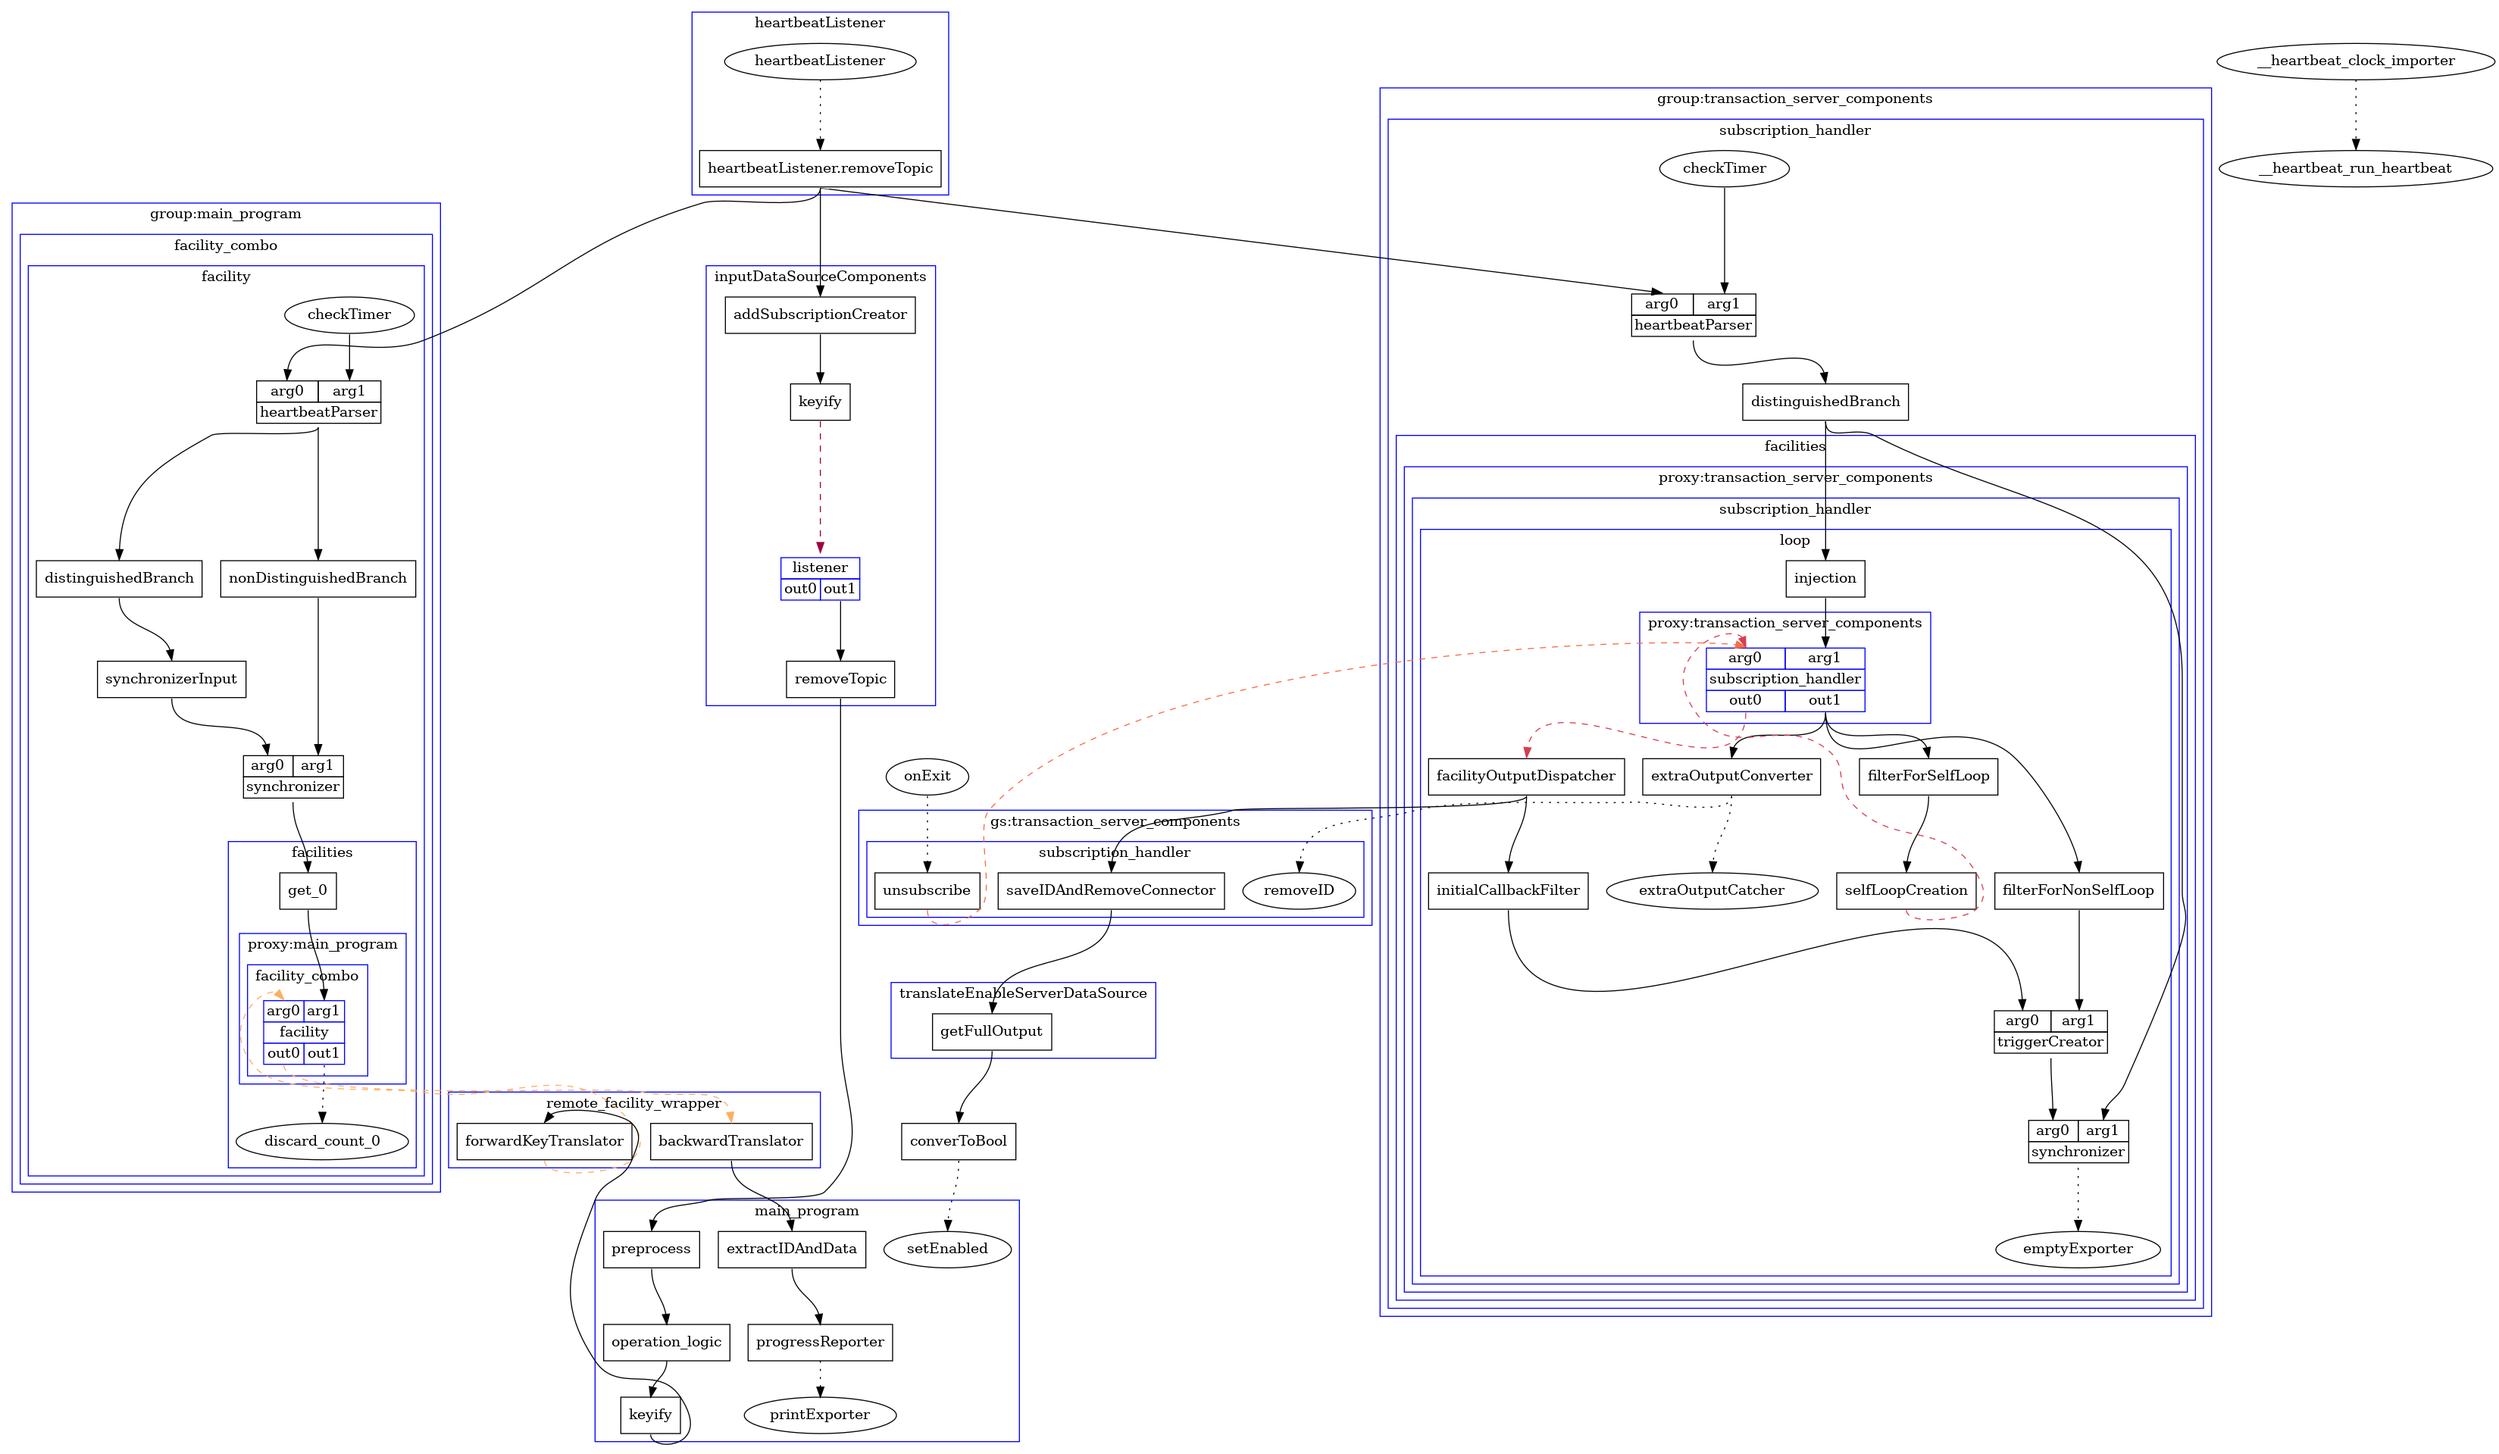
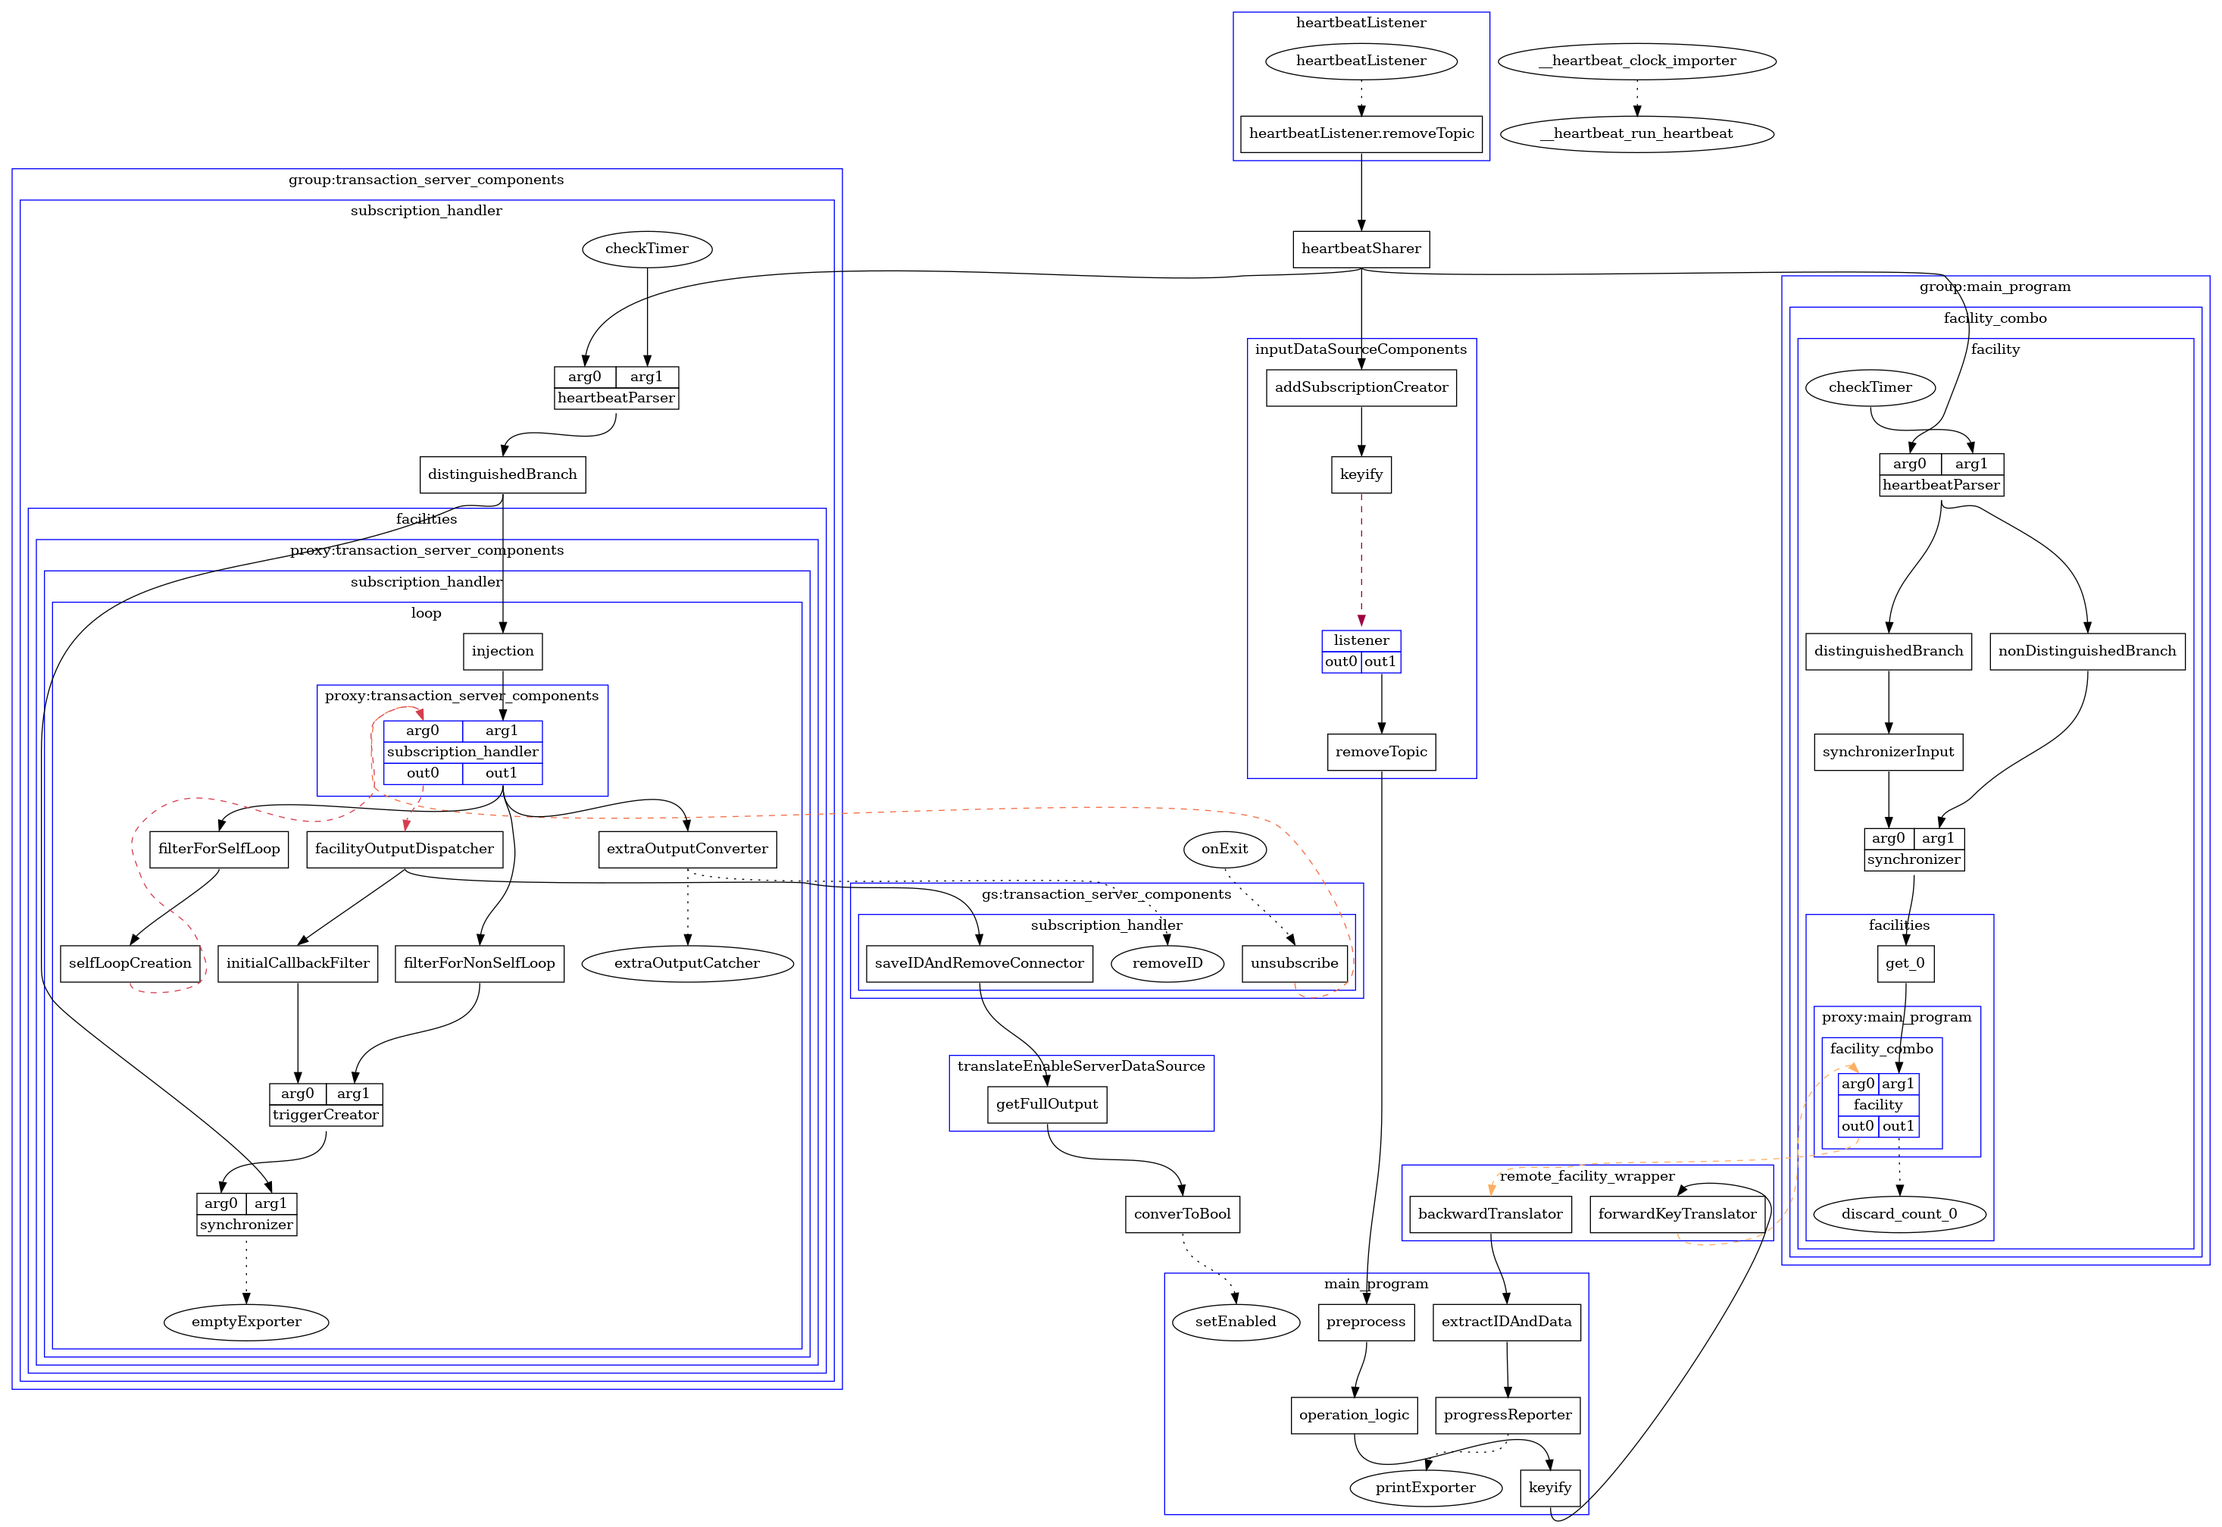
allow shared heartbeat data to be used in service discovery

diff --git a/simple_demo_chain_version/executables/main_logic/main_request_generator.cpp b/simple_demo_chain_version/executables/main_logic/main_request_generator.cpp
@@ -64,11 +64,18 @@ int main(int argc, char **argv) {
             , "simple_demo_chain_version.#.heartbeat"
         );
 
+    auto heartbeatSharer = 
+        infra::KleisliUtils<M>::action(
+            basic::CommonFlowUtilComponents<M>::shareBetweenDownstream<transport::HeartbeatMessage>()
+        );
+    r.registerAction("heartbeatSharer", heartbeatSharer);
+    auto sharedHeartbeatSource = r.execute(heartbeatSharer, heartbeatSource.clone());
+
     auto inputDataSource = transport::MultiTransportBroadcastListenerManagingUtils<R>
         ::setupBroadcastListenerThroughHeartbeat<InputData>
     (
         r 
-        , heartbeatSource.clone()
+        , sharedHeartbeatSource.clone()
         , std::regex("simple_demo_chain_version DataSource")
         , "input data publisher"
         , "input.data"
@@ -79,7 +86,7 @@ int main(int argc, char **argv) {
         ::setupOneNonDistinguishedRemoteFacility<basic::CBOR<double>, basic::CBOR<std::optional<ChainData>>>
         (
             r 
-            , heartbeatSource.clone()
+            , sharedHeartbeatSource.clone()
             , std::regex("simple_demo_chain_version MainLogic Request Placer")
             , "main_program/facility_combo/facility"
         ).facility;
@@ -91,7 +98,7 @@ int main(int argc, char **argv) {
         ::createSubscriber<GS>
         (
             r 
-            , heartbeatSource.clone()
+            , sharedHeartbeatSource.clone()
             , std::regex("simple_demo_chain_version Enable Server")
             , "transaction_server_components/subscription_handler"
             , GS::Subscription {{basic::VoidStruct {}}}
